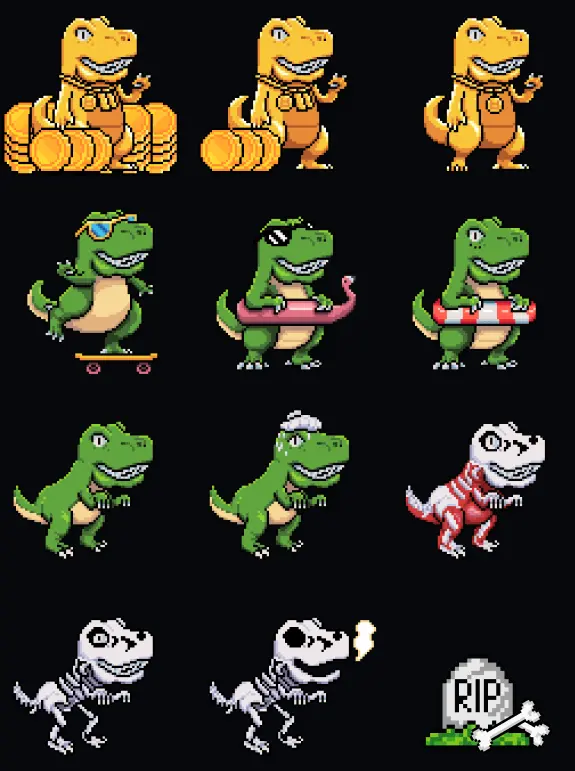
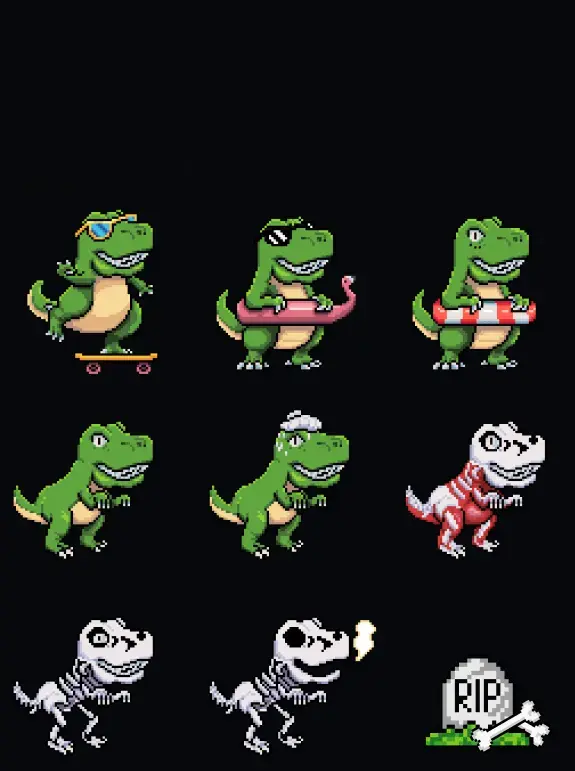
Tea-REX: animate the three rich Rex states
The new GIFs sit over the first three slots of the Rex gauge strip on
desktop, tablet and mobile; the old stills are painted out of the strip
images so nothing shows through.

Claude-Session: https://claude.ai/code/session_01XwSJSoqq3h7KCuvntWv7Qm

Changed region(s): [[0.0, 0.0, 0.6209, 0.249], [0.7391, 0.0, 0.9461, 0.2179]]

diff --git a/tearex.html b/tearex.html
@@ -72,8 +72,11 @@
         <h3 class="subhead__title">Rex is the gauge.</h3>
         <p>Three moods — thriving, uneasy, in trouble. You know how your position is doing before you read a number.</p>
       </div>
-      <div class="block" style="--mw:287px; --w:1103px; --tw:625px" data-reveal="right">
+      <div class="block rex-gauge" style="--mw:287px; --w:1103px; --tw:625px" data-reveal="right">
         <picture><source media="(max-width: 767px)" srcset="assets/tearex/rex-states-mobile.webp" width="287" height="385"><source media="(max-width: 1199px)" srcset="assets/tearex/rex-states-tablet.webp" width="625" height="172"><img src="assets/tearex/rex-states.webp" alt="Twelve Rex states from rich to RIP" width="1103" height="80" loading="lazy"></picture>
+        <img class="rex-gauge__gif" src="assets/tearex/rex-rich-3.gif" alt="" width="80" height="85" style="--x:-0.228%; --y:-8.152%; --s:7.568%; --tx:5.998%; --ty:-3.792%; --ts:13.357%; --mx:-0.389%; --my:-1.489%; --ms:31.859%">
+        <img class="rex-gauge__gif" src="assets/tearex/rex-rich-2.gif" alt="" width="80" height="85" style="--x:8.228%; --y:-8.152%; --s:7.568%; --tx:20.96%; --ty:-3.792%; --ts:13.357%; --mx:33.913%; --my:-1.489%; --ms:31.859%">
+        <img class="rex-gauge__gif" src="assets/tearex/rex-rich-1.gif" alt="" width="80" height="85" style="--x:17.131%; --y:-8.152%; --s:7.568%; --tx:36.633%; --ty:-3.792%; --ts:13.357%; --mx:69.95%; --my:-1.489%; --ms:31.859%">
       </div>
     </div>
 

diff --git a/css/style.css b/css/style.css
@@ -957,6 +957,19 @@ strong { font-weight: 700; }
 .only-tablet,
 .only-mobile { display: none !important; }
 
+/* Rex gauge: the three rich states are animated GIFs laid over their slots
+   in the strip (x / y / size are % of the strip, per breakpoint). */
+.rex-gauge { position: relative; }
+.rex-gauge .rex-gauge__gif {
+  position: absolute;
+  left: var(--x);
+  top: var(--y);
+  width: var(--s);
+  height: auto;
+  image-rendering: pixelated;
+  pointer-events: none;
+}
+
 @media (max-width: 1199px) {
   :root {
     --page-top: 185px;
@@ -1055,6 +1068,7 @@ strong { font-weight: 700; }
   .awards { width: min(var(--col), calc(100% - 2 * var(--gutter))); gap: 32px; }
 
   /* ---------- Tea-REX ---------- */
+  .rex-gauge .rex-gauge__gif { left: var(--tx); top: var(--ty); width: var(--ts); }
   .subhead { width: min(var(--col), calc(100% - 2 * var(--gutter))); }
   .jungle {
     width: min(var(--col), calc(100% - 2 * var(--gutter)));
@@ -1222,6 +1236,7 @@ strong { font-weight: 700; }
   .awards { width: min(348px, calc(100% - 2 * var(--gutter))); grid-template-columns: 1fr; gap: 30px; }
 
   /* ---------- Tea-REX ---------- */
+  .rex-gauge .rex-gauge__gif { left: var(--mx); top: var(--my); width: var(--ms); }
   .subhead { width: calc(100% - 2 * var(--gutter)); }
   .jungle { width: calc(100% - 2 * var(--gutter)); }
   .jungle img { width: 359px; }
